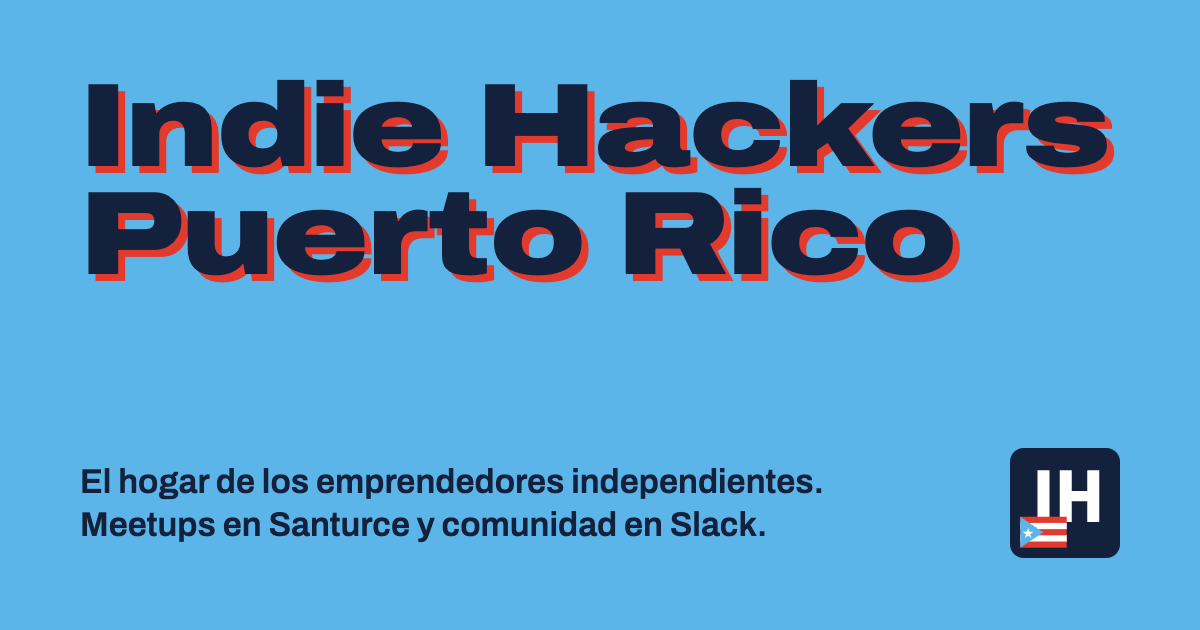
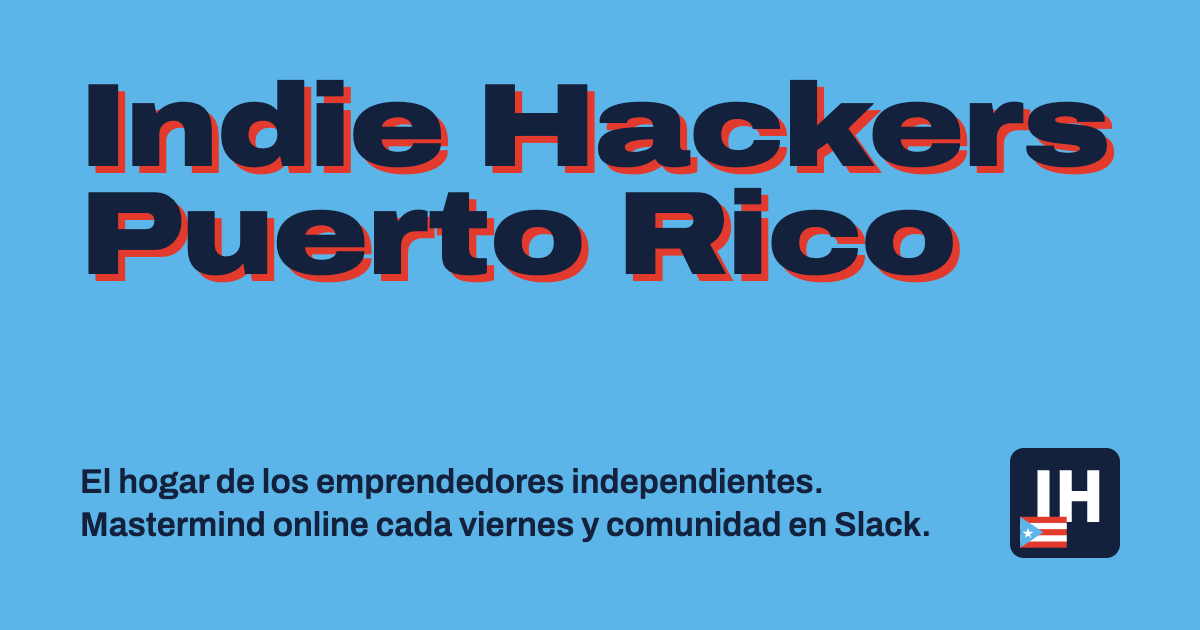
Replace monthly meetups with weekly online Mastermind
The community no longer meets monthly at Piloto 151; it now runs a
weekly online Mastermind on Fridays 10:00–11:00 AM (AST) via Google Meet,
published on the Luma calendar.

- Home: new Mastermind section with schedule, host, and next-session
  date computed client-side; old meetup photos kept as history
- Hero, nav, meta description, and OG image updated
- Luma calendar added to links, footer, and Organization sameAs
- EventSeries JSON-LD with a weekly Friday schedule

Changed region(s): [[0.0925, 0.8143, 0.7708, 0.8746]]

diff --git a/layouts/home.html b/layouts/home.html
@@ -10,46 +10,75 @@
       <p class="mt-8 max-w-xl text-xl font-medium sm:text-2xl">
         El hogar de los emprendedores independientes boricuas. Somos la comunidad local de
         <a href="https://www.indiehackers.com/" class="underline decoration-2 underline-offset-4 hover:text-flamboyan">Indie Hackers</a>:
-        nos juntamos cada mes en Santurce y hablamos todos los días en Slack.
+        nos reunimos online cada viernes y hablamos todos los días en Slack.
       </p>
       <div class="mt-10 flex flex-wrap gap-4">
         <a href="{{ $links.slack }}" class="btn-solid">Únete a la comunidad en Slack</a>
-        <a href="#meetups" class="btn-outline">Ver los meetups</a>
+        <a href="#mastermind" class="btn-outline">Ver el Mastermind semanal</a>
       </div>
     </div>
   </section>
 
-  {{/* Meetups */}}
-  <section id="meetups" class="scroll-mt-4 bg-mango">
+  {{/* Weekly mastermind */}}
+  {{ with site.Params.mastermind }}
+  <section id="mastermind" class="scroll-mt-4 bg-mango">
     <div class="mx-auto grid max-w-6xl items-center gap-12 px-4 py-20 sm:px-6 lg:grid-cols-[5fr_6fr]">
       <div>
-        <h2 class="display text-4xl sm:text-5xl">Meetups cada mes</h2>
+        <h2 class="display text-4xl sm:text-5xl">Mastermind cada viernes</h2>
         <p class="mt-6 max-w-prose text-lg leading-relaxed">
-          Nos reunimos todos los meses en <a href="{{ $links.venue }}" class="font-semibold underline underline-offset-4 hover:text-flamboyan">Piloto 151, Santurce Suites</a>
-          para discutir ideas de negocio, hacer amigos y compartir pizzas y cervezas.
-          Anunciamos cada evento en X, y las charlas pasadas están en YouTube.
+          Presenta tu venture. Recibe feedback real. Avanza cada semana.
+          Conversaciones tácticas para techies y emprendedores con el corazón en la Isla.
         </p>
+        <dl class="mt-8 grid max-w-md grid-cols-[auto_1fr] gap-x-6 gap-y-2 text-lg">
+          <dt class="font-bold">Cuándo</dt>
+          <dd>Viernes, {{ .time }} (hora de Puerto Rico)</dd>
+          <dt class="font-bold">Dónde</dt>
+          <dd>Online por {{ .platform }}</dd>
+          <dt class="font-bold">Organiza</dt>
+          <dd>{{ .host }}</dd>
+        </dl>
+        <p class="mt-6 font-semibold" data-next-session hidden></p>
         <div class="mt-8 flex flex-wrap gap-4">
-          <a href="{{ $links.twitter }}" class="btn-solid">Ver próximos eventos</a>
+          <a href="{{ $links.luma }}" class="btn-solid">Regístrate en Luma</a>
           <a href="{{ $links.youtube }}" class="btn-outline">Ver charlas anteriores</a>
         </div>
       </div>
-      <div class="grid grid-cols-2 gap-4">
-        {{ range slice
-          (dict "src" "meetups/meetup.jpg" "alt" "Grupo de Indie Hackers Puerto Rico en un meetup en Piloto 151, Santurce")
-          (dict "src" "meetups/cervezas.jpg" "alt" "Miembros de Indie Hackers Puerto Rico compartiendo cervezas después de un meetup")
-        }}
-          {{ $alt := .alt }}
-          {{ with resources.Get (printf "images/%s" .src) }}
-            {{ with .Process "webp" }}
-              <img src="{{ .RelPermalink }}" width="{{ .Width }}" height="{{ .Height }}" alt="{{ $alt }}"
-                class="aspect-[3/2] w-full rounded-lg border-4 border-white object-cover even:mt-10" loading="lazy">
+      <figure>
+        <div class="grid grid-cols-2 gap-4">
+          {{ range slice
+            (dict "src" "meetups/meetup.jpg" "alt" "Grupo de Indie Hackers Puerto Rico en un meetup presencial en Piloto 151, Santurce")
+            (dict "src" "meetups/cervezas.jpg" "alt" "Miembros de Indie Hackers Puerto Rico compartiendo cervezas después de un meetup presencial")
+          }}
+            {{ $alt := .alt }}
+            {{ with resources.Get (printf "images/%s" .src) }}
+              {{ with .Process "webp" }}
+                <img src="{{ .RelPermalink }}" width="{{ .Width }}" height="{{ .Height }}" alt="{{ $alt }}"
+                  class="aspect-[3/2] w-full rounded-lg border-4 border-white object-cover even:mt-10" loading="lazy">
+              {{ end }}
             {{ end }}
           {{ end }}
-        {{ end }}
-      </div>
+        </div>
+        <figcaption class="mt-4 text-sm font-medium text-navy/70">Así empezamos: meetups presenciales en Piloto 151, Santurce.</figcaption>
+      </figure>
     </div>
   </section>
+
+  <script>
+    // Show the date of the next Friday session in Puerto Rico time (UTC-4, no DST).
+    (() => {
+      const el = document.querySelector("[data-next-session]");
+      const now = new Date();
+      const next = new Date(Date.UTC(now.getUTCFullYear(), now.getUTCMonth(), now.getUTCDate(), {{ .utcHour }}));
+      const daysAhead = (5 - next.getUTCDay() + 7) % 7;
+      next.setUTCDate(next.getUTCDate() + daysAhead);
+      // Once this week's session has ended, point to next week's.
+      if (now - next > 60 * 60 * 1000) next.setUTCDate(next.getUTCDate() + 7);
+      const fmt = new Intl.DateTimeFormat("es-PR", { weekday: "long", day: "numeric", month: "long", timeZone: "America/Puerto_Rico" });
+      el.textContent = `Próxima sesión: ${fmt.format(next)}`;
+      el.hidden = false;
+    })();
+  </script>
+  {{ end }}
 
   {{/* Slack */}}
   <section class="bg-navy text-white">

diff --git a/layouts/_partials/schema.html b/layouts/_partials/schema.html
@@ -7,7 +7,7 @@
   "logo" ("images/logo.png" | absURL)
   "description" site.Params.description
   "areaServed" (dict "@type" "Place" "name" "Puerto Rico")
-  "sameAs" (slice site.Params.links.twitter site.Params.links.youtube)
+  "sameAs" (slice site.Params.links.twitter site.Params.links.youtube site.Params.links.luma)
 -}}
 {{- $graph := slice $org -}}
 {{- if .IsHome -}}
@@ -19,6 +19,26 @@
     "url" site.Home.Permalink
     "inLanguage" site.Language.Locale
     "publisher" (dict "@id" (printf "%s#organizacion" site.Home.Permalink))
+  ) -}}
+{{- end -}}
+{{- with and .IsHome site.Params.mastermind -}}
+  {{- $graph = $graph | append (dict
+    "@type" "EventSeries"
+    "name" .name
+    "description" "Presenta tu venture. Recibe feedback real. Avanza cada semana. Conversaciones tácticas para techies y emprendedores con el corazón en la Isla."
+    "url" site.Params.links.luma
+    "inLanguage" site.Language.Locale
+    "eventAttendanceMode" "https://schema.org/OnlineEventAttendanceMode"
+    "location" (dict "@type" "VirtualLocation" "url" site.Params.links.luma)
+    "organizer" (dict "@id" (printf "%s#organizacion" site.Home.Permalink))
+    "eventSchedule" (dict
+      "@type" "Schedule"
+      "byDay" "https://schema.org/Friday"
+      "startTime" "10:00:00"
+      "endTime" "11:00:00"
+      "repeatFrequency" "P1W"
+      "scheduleTimezone" "America/Puerto_Rico"
+    )
   ) -}}
 {{- end -}}
 {{- if eq .Path "/trabajo-remoto" -}}

diff --git a/layouts/_partials/footer.html b/layouts/_partials/footer.html
@@ -10,6 +10,7 @@
     </div>
     <ul class="flex flex-col gap-3 font-semibold">
       <li><a href="{{ $links.slack }}" class="hover:text-mango">Comunidad en Slack</a></li>
+      <li><a href="{{ $links.luma }}" class="hover:text-mango">Eventos en Luma</a></li>
       <li><a href="{{ $links.twitter }}" class="hover:text-mango">X (Twitter)</a></li>
       <li><a href="{{ $links.youtube }}" class="hover:text-mango">Charlas en YouTube</a></li>
     </ul>

diff --git a/README.md b/README.md
@@ -14,7 +14,8 @@ npm run build   # production build into public/
 
 - **Members:** `data/miembros.yaml` (bio is Markdown) + photo in `assets/images/miembros/`
 - **Remote-work places:** `data/lugares.yaml` + photo in `assets/images/lugares/`
-- **Links** (Slack, X, YouTube, venue, add-a-place form): `[params.links]` in `hugo.toml`
+- **Links** (Slack, Luma, X, YouTube, add-a-place form): `[params.links]` in `hugo.toml`
+- **Weekly Mastermind** (time, platform, host): `[params.mastermind]` in `hugo.toml`
 
 Photos are resized and converted to WebP at build time, so drop in originals.
 

diff --git a/content/_index.md b/content/_index.md
@@ -1,4 +1,4 @@
 ---
 title: Indie Hackers Puerto Rico | Comunidad de emprendedores
-description: Comunidad de emprendedores independientes, freelancers y trabajadores remotos en Puerto Rico. Meetups mensuales en Santurce y conversación diaria en Slack.
+description: Comunidad de emprendedores independientes, freelancers y trabajadores remotos en Puerto Rico. Mastermind online cada viernes y conversación diaria en Slack.
 ---
